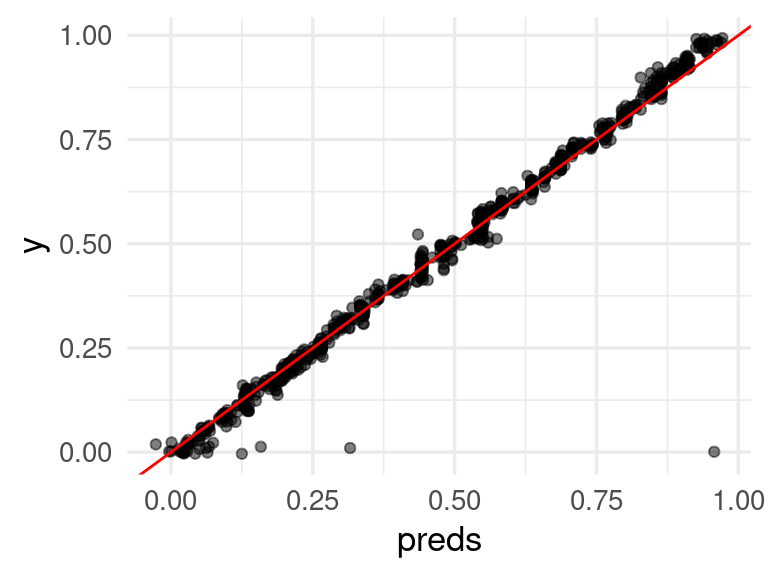
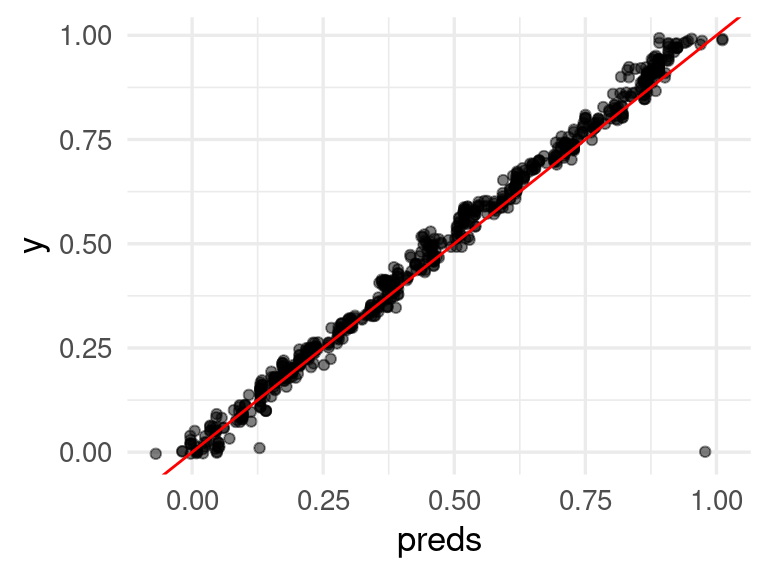
Deploying to gh-pages from @ felipegonzalez/aprendizaje-maquina-mcd-2023@63fb9ea19c8cbb1d31ce6e58d4c9cae41a7c406b 🚀

diff --git a/01-introduccion.html b/01-introduccion.html
@@ -348,13 +348,13 @@ pre > code.sourceCode > span > a:first-child::before { text-decoration: underlin
 <div class="cell">
 <div class="sourceCode cell-code" id="cb10"><pre class="sourceCode r code-with-copy"><code class="sourceCode r"><span id="cb10-1"><a href="#cb10-1" aria-hidden="true" tabindex="-1"></a>modelo_aguja <span class="sc">|&gt;</span> <span class="fu">compile</span>(</span>
 <span id="cb10-2"><a href="#cb10-2" aria-hidden="true" tabindex="-1"></a>  <span class="at">loss =</span> <span class="st">"mse"</span>,</span>
-<span id="cb10-3"><a href="#cb10-3" aria-hidden="true" tabindex="-1"></a>  <span class="at">optimizer =</span> <span class="fu">optimizer_adam</span>(<span class="at">learning_rate =</span> <span class="fl">0.001</span>),</span>
+<span id="cb10-3"><a href="#cb10-3" aria-hidden="true" tabindex="-1"></a>  <span class="at">optimizer =</span> <span class="fu">optimizer_adam</span>(<span class="at">learning_rate =</span> <span class="fl">0.0005</span>),</span>
 <span id="cb10-4"><a href="#cb10-4" aria-hidden="true" tabindex="-1"></a>  <span class="at">metrics =</span> <span class="fu">c</span>(<span class="st">'mae'</span>)</span>
 <span id="cb10-5"><a href="#cb10-5" aria-hidden="true" tabindex="-1"></a>)                                                                                                        </span>
 <span id="cb10-6"><a href="#cb10-6" aria-hidden="true" tabindex="-1"></a><span class="co"># Entrenar</span></span>
 <span id="cb10-7"><a href="#cb10-7" aria-hidden="true" tabindex="-1"></a>modelo_aguja <span class="sc">|&gt;</span> <span class="fu">fit</span>(</span>
 <span id="cb10-8"><a href="#cb10-8" aria-hidden="true" tabindex="-1"></a>  generador_entrena,</span>
-<span id="cb10-9"><a href="#cb10-9" aria-hidden="true" tabindex="-1"></a>  <span class="at">epochs =</span> <span class="dv">80</span>,</span>
+<span id="cb10-9"><a href="#cb10-9" aria-hidden="true" tabindex="-1"></a>  <span class="at">epochs =</span> <span class="dv">200</span>,</span>
 <span id="cb10-10"><a href="#cb10-10" aria-hidden="true" tabindex="-1"></a>  <span class="at">verbose =</span> <span class="cn">TRUE</span>, </span>
 <span id="cb10-11"><a href="#cb10-11" aria-hidden="true" tabindex="-1"></a>  <span class="at">validation_data =</span> <span class="fu">list</span>(<span class="at">x =</span> x[<span class="sc">-</span>indices_entrena,,,], </span>
 <span id="cb10-12"><a href="#cb10-12" aria-hidden="true" tabindex="-1"></a>                         <span class="at">y =</span> y_imagenes[<span class="sc">-</span><span class="fu">c</span>(indices_entrena)] <span class="sc">/</span> <span class="dv">10</span>)</span>
@@ -365,23 +365,23 @@ pre > code.sourceCode > span > a:first-child::before { text-decoration: underlin
 <div class="sourceCode cell-code" id="cb11"><pre class="sourceCode r code-with-copy"><code class="sourceCode r"><span id="cb11-1"><a href="#cb11-1" aria-hidden="true" tabindex="-1"></a>modelo <span class="ot">&lt;-</span> <span class="fu">load_model_hdf5</span>(<span class="st">"cache/modelo-aguja.h5"</span>)</span>
 <span id="cb11-2"><a href="#cb11-2" aria-hidden="true" tabindex="-1"></a>modelo</span></code><button title="Copiar al portapapeles" class="code-copy-button"><i class="bi"></i></button></pre></div>
 <div class="cell-output cell-output-stdout">
-<pre><code>Model: "sequential_3"
+<pre><code>Model: "sequential_2"
 ________________________________________________________________________________
  Layer (type)                       Output Shape                    Param #     
 ================================================================================
- conv2d_11 (Conv2D)                 (None, 60, 60, 32)              2432        
- max_pooling2d_11 (MaxPooling2D)    (None, 30, 30, 32)              0           
- conv2d_10 (Conv2D)                 (None, 26, 26, 32)              25632       
- max_pooling2d_10 (MaxPooling2D)    (None, 13, 13, 32)              0           
- conv2d_9 (Conv2D)                  (None, 11, 11, 16)              4624        
- max_pooling2d_9 (MaxPooling2D)     (None, 5, 5, 16)                0           
- flatten_3 (Flatten)                (None, 400)                     0           
- dropout_10 (Dropout)               (None, 400)                     0           
- dense_10 (Dense)                   (None, 100)                     40100       
- dropout_9 (Dropout)                (None, 100)                     0           
- dense_9 (Dense)                    (None, 100)                     10100       
- dropout_8 (Dropout)                (None, 100)                     0           
- dense_8 (Dense)                    (None, 1)                       101         
+ conv2d_8 (Conv2D)                  (None, 60, 60, 32)              2432        
+ max_pooling2d_8 (MaxPooling2D)     (None, 30, 30, 32)              0           
+ conv2d_7 (Conv2D)                  (None, 26, 26, 32)              25632       
+ max_pooling2d_7 (MaxPooling2D)     (None, 13, 13, 32)              0           
+ conv2d_6 (Conv2D)                  (None, 11, 11, 16)              4624        
+ max_pooling2d_6 (MaxPooling2D)     (None, 5, 5, 16)                0           
+ flatten_2 (Flatten)                (None, 400)                     0           
+ dropout_8 (Dropout)                (None, 400)                     0           
+ dense_8 (Dense)                    (None, 100)                     40100       
+ dropout_7 (Dropout)                (None, 100)                     0           
+ dense_7 (Dense)                    (None, 100)                     10100       
+ dropout_6 (Dropout)                (None, 100)                     0           
+ dense_6 (Dense)                    (None, 1)                       101         
 ================================================================================
 Total params: 82,989
 Trainable params: 82,989
